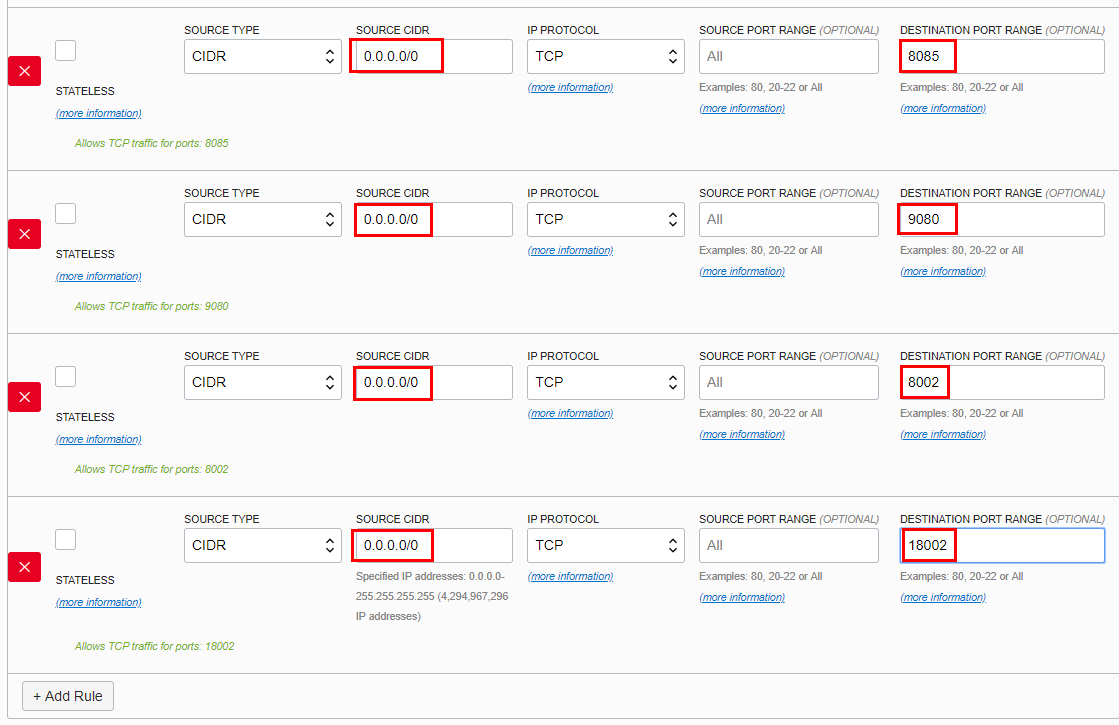
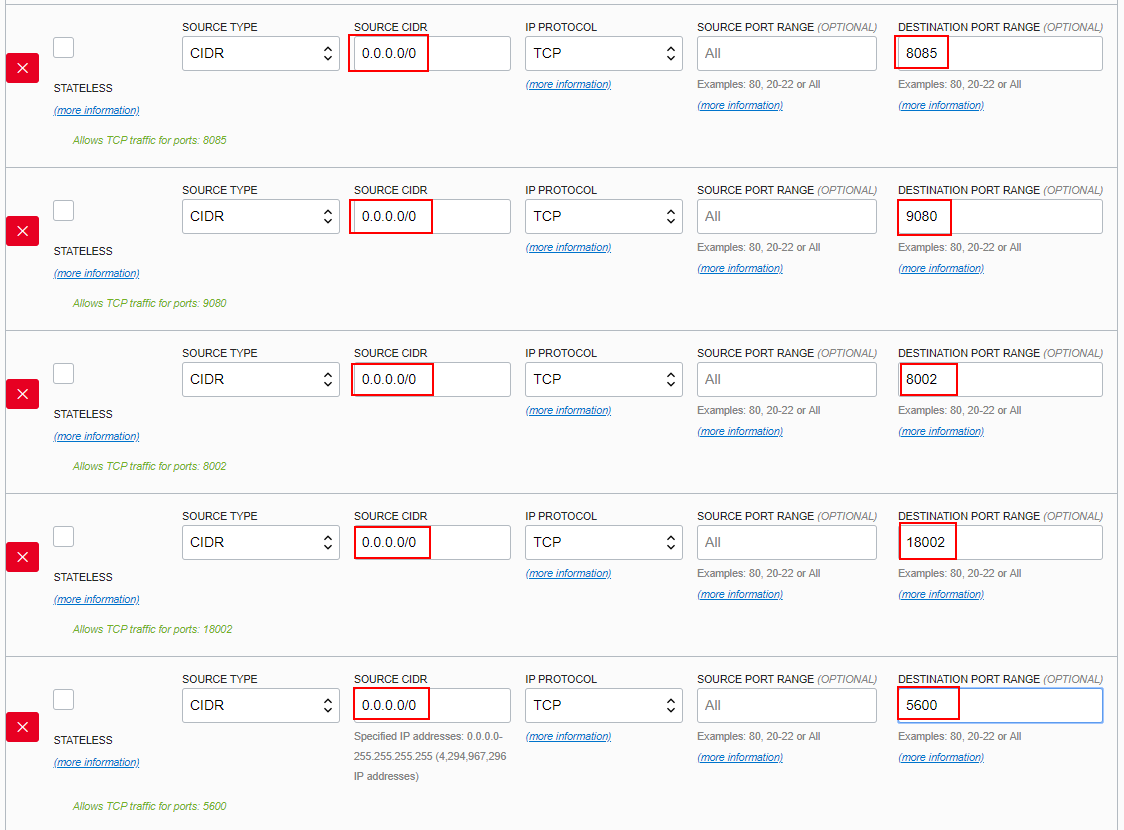
Updates

diff --git a/Linux200.md b/Linux200.md
@@ -117,14 +117,14 @@ This docker command will create a container based on the database image file loc
     - "-v" This maps the directory where you downloaded the AlphaOfficeSetup GIT
     repository to the /dbfiles directory within the container  
 
-- **Type OR cut and paste** (all on one line) the following; substituting your path "**\<YOUR-HOME>**" where you download the AlphaofficeSetup GIT repository. For Example: `/YOUR-HOME/AlphaOfficeSetup` might change to this `~/AlphaOfficeSetup`, if you loaded the git repository in your home directory.
+- **Type OR cut and paste** the following.  If you downloaded the AlphaOfficeSetup GIT files to a directory other than /home/opc/ then ***Substitute*** your directory name. For Example: `/home/opc/AlphaOfficeSetup` might change to this `~/AlphaOfficeSetup`, if you loaded the GIT repository in your home directory.
 
 ```
-docker run -d -it --name orcl -h='oracledb-ao' -p=1521:1521 -p=5600:5600 -v /<YOUR-HOME>/AlphaOfficeSetup:/dbfiles wvbirder/database-enterprise:12.2.0.1-slim
+docker run -d -it --name orcl -h='oracledb-ao' -p=1521:1521 -p=5600:5600 -v /home/opc/AlphaOfficeSetup:/dbfiles wvbirder/database-enterprise:12.2.0.1-slim
 ```
 
 Example:
-docker `run -d -it --name orcl -h='oracledb-ao' -p=1521:1521 -p=5600:5600 -v /home/holuser/AlphaOfficeSetup:/dbfiles wvbirder/database-enterprise:12.2.0.1-slim`
+docker `run -d -it --name orcl -h='oracledb-ao' -p=1521:1521 -p=5600:5600 -v /home/opc/AlphaOfficeSetup:/dbfiles wvbirder/database-enterprise:12.2.0.1-slim`
 
 ***If you make a mistake with the volume path to where you downloaded the AlphaOfficeSetup files you can stop and remove the container once it's created and try again using the following commands***
 
@@ -223,23 +223,31 @@ HTTP access as been defined on port 5600.
 
 - **NOTE:** If you want to login to Enterprise Manager Express the browser needs the Shockwave add-on installed. Install this into your browser environment by going to the adobe webite and downloading the player from: [Shockwave](https://get.adobe.com/shockwave/)
 
-- **If you are using the workshop VirtualBox VM Shockwave has already been installed and you will only have to enable it.**
+- We need the Public IP address to test the deployment. Navigate in a browser to your Oracle Trial account and from the hamburger menu in the upper left hand side of the page select go to **Compute-->Instances**:
 
-- In your browser **enter**:
+  ![](images/100Linux/26.png)
+
+- Click on the **Docker** instance link
+
+  ![](images/100Linux/Picture100-5-4.png)
+
+- Note the Public IP address (In this example, `129.213.119.105`
+
+  ![](images/100Linux/Picture100-5-6.png)
+
+- In your browser **enter** (Substituting you Public IP address):
 
 ```
-http://localhost:5600/em
+http://<Public-IP>:5600/em
 ```
-
-![](images/200Linux/Picture200-12.6.png)
 
 - You may get prompted to enable Adobe Flash. Click the link to do so.
 
-![](images/200Win/Picture200-12.8.png)
+  ![](images/200Linux/Picture200-12.8.png)
 
-![](images/200Linux/Picture200-13.png)
+  ![](images/200Linux/Picture200-13.png)
 
-**Enter** the following:
+- **Enter** the following:
 
 ```
 Username: sys
@@ -267,13 +275,13 @@ This docker command will create a container based on the latest MYSQL database i
     - "-v" This maps the directory where you downloaded the AlphaOfficeSetup GIT
     repository to the /dbfiles directory within the container 
     
-- **Type OR cut and paste** the following, but ***Substitute*** the **YOUR-HOME** place holder with the directory name where you loaded the AlphaofficeSetup GIT repository. For Example: `/YOUR-HOME/AlphaOfficeSetup` might change to this `~/AlphaOfficeSetup`, if you loaded the git repository in your home directory.
+- **Type OR cut and paste** the following.  If you downloaded the AlphaOfficeSetup GIT files to a directory other than /home/opc/ then ***Substitute*** your directory name. For Example: `/home/opc/AlphaOfficeSetup` might change to this `~/AlphaOfficeSetup`, if you loaded the GIT repository in your home directory.
 
 ```
-docker run -d -it --name mysql -h='mysqldb-ao' -p=3306:3306 -v /<YOUR-HOME>/AlphaOfficeSetup:/dbfiles --env="MYSQL_ROOT_PASSWORD=Alpha2017_" mysql
+docker run -d -it --name mysql -h='mysqldb-ao' -p=3306:3306 -v /home/opc/AlphaOfficeSetup:/dbfiles --env="MYSQL_ROOT_PASSWORD=Alpha2017_" mysql
 ```
 
-- Example: `docker run -d -it --name mysql -h='mysqldb-ao' -p=3306:3306 -v /home/holuser/AlphaOfficeSetup:/dbfiles --env="MYSQL_ROOT_PASSWORD=Alpha2017_" mysql`
+- Example: `docker run -d -it --name mysql -h='mysqldb-ao' -p=3306:3306 -v /home/opc/AlphaOfficeSetup:/dbfiles --env="MYSQL_ROOT_PASSWORD=Alpha2017_" mysql`
 
 - This sets up a default MYSQL database using the "root" database users password as "Alpha2017_"
 

diff --git a/Linux050.md b/Linux050.md
@@ -161,7 +161,7 @@ A security list provides a virtual firewall for an instance, with ingress and eg
 
     ![](images/050Linux/18.PNG)
 
-For the purposes of the upcoming Docker deployments we need to add three Ingress Rules that allow access from the Internet to ports 9080, 8002, 18002, and 8085. In the production environment only the UI port (8085) would typically be opened for access but the labs will have us test the various other Docker container functionallity as we go, thus the need to open other ports.
+For the purposes of the upcoming Docker deployments we need to add three Ingress Rules that allow access from the Internet to ports 9080, 8002, 18002, 5600, and 8085. In a production environment only the UI port (8085) would typically be opened for access but the labs will have us test various other Application and Oracle centric functionality as we go, thus the need to open other ports.
 
 - Click **Edit All Rules** and then select **+Add Rule**
 
@@ -178,7 +178,7 @@ Source CIDR: 0.0.0.0/0
 Destination Port Range: 8085 
 ```
 
-- **Add three more Ingress Rules**
+- **Add four more Ingress Rules**
 
 ```
 Source CIDR: 0.0.0.0/0
@@ -193,6 +193,11 @@ Destination Port Range: 8002
 ```
 Source CIDR: 0.0.0.0/0
 Destination Port Range: 18002 
+```
+
+```
+Source CIDR: 0.0.0.0/0
+Destination Port Range: 5600 
 ```
 
 - When completed your rules should look like:
@@ -374,5 +379,17 @@ git --version
 - If the following commands run without error as the `opc` user then you are ready to proceed to Lab 100.
 
    ![](images/050Linux/41.PNG)
+
+### **STEP 10**: Edit /etc/sysconfig/selinux
+
+To ensure that permissive mode survives re-boots please edit /etc/sysconfig/selinux
+
+- Using vi change the SELINUX line to **permissive**. **Type** the following:
+
+```
+vi /etc/sysconfig/selinux
+```
+
+   ![](images/050Linux/42.png)
 
 **This completes the Set Up!**

diff --git a/Linux100.md b/Linux100.md
@@ -108,7 +108,15 @@ docker ps
 
 ![](images/100Linux/26.png)
 
-- Go to this URL substituting your IP address
+- Click on the **Docker** instance link
+
+![](images/100Linux/Picture100-5-4.png)
+
+- Note the Public IP address (In this example, `129.213.119.105`
+
+![](images/100Linux/Picture100-5-6.png)
+
+- Go to this URL substituting your Public IP address
 
 ```
 http://<Public-IP>:8002/
